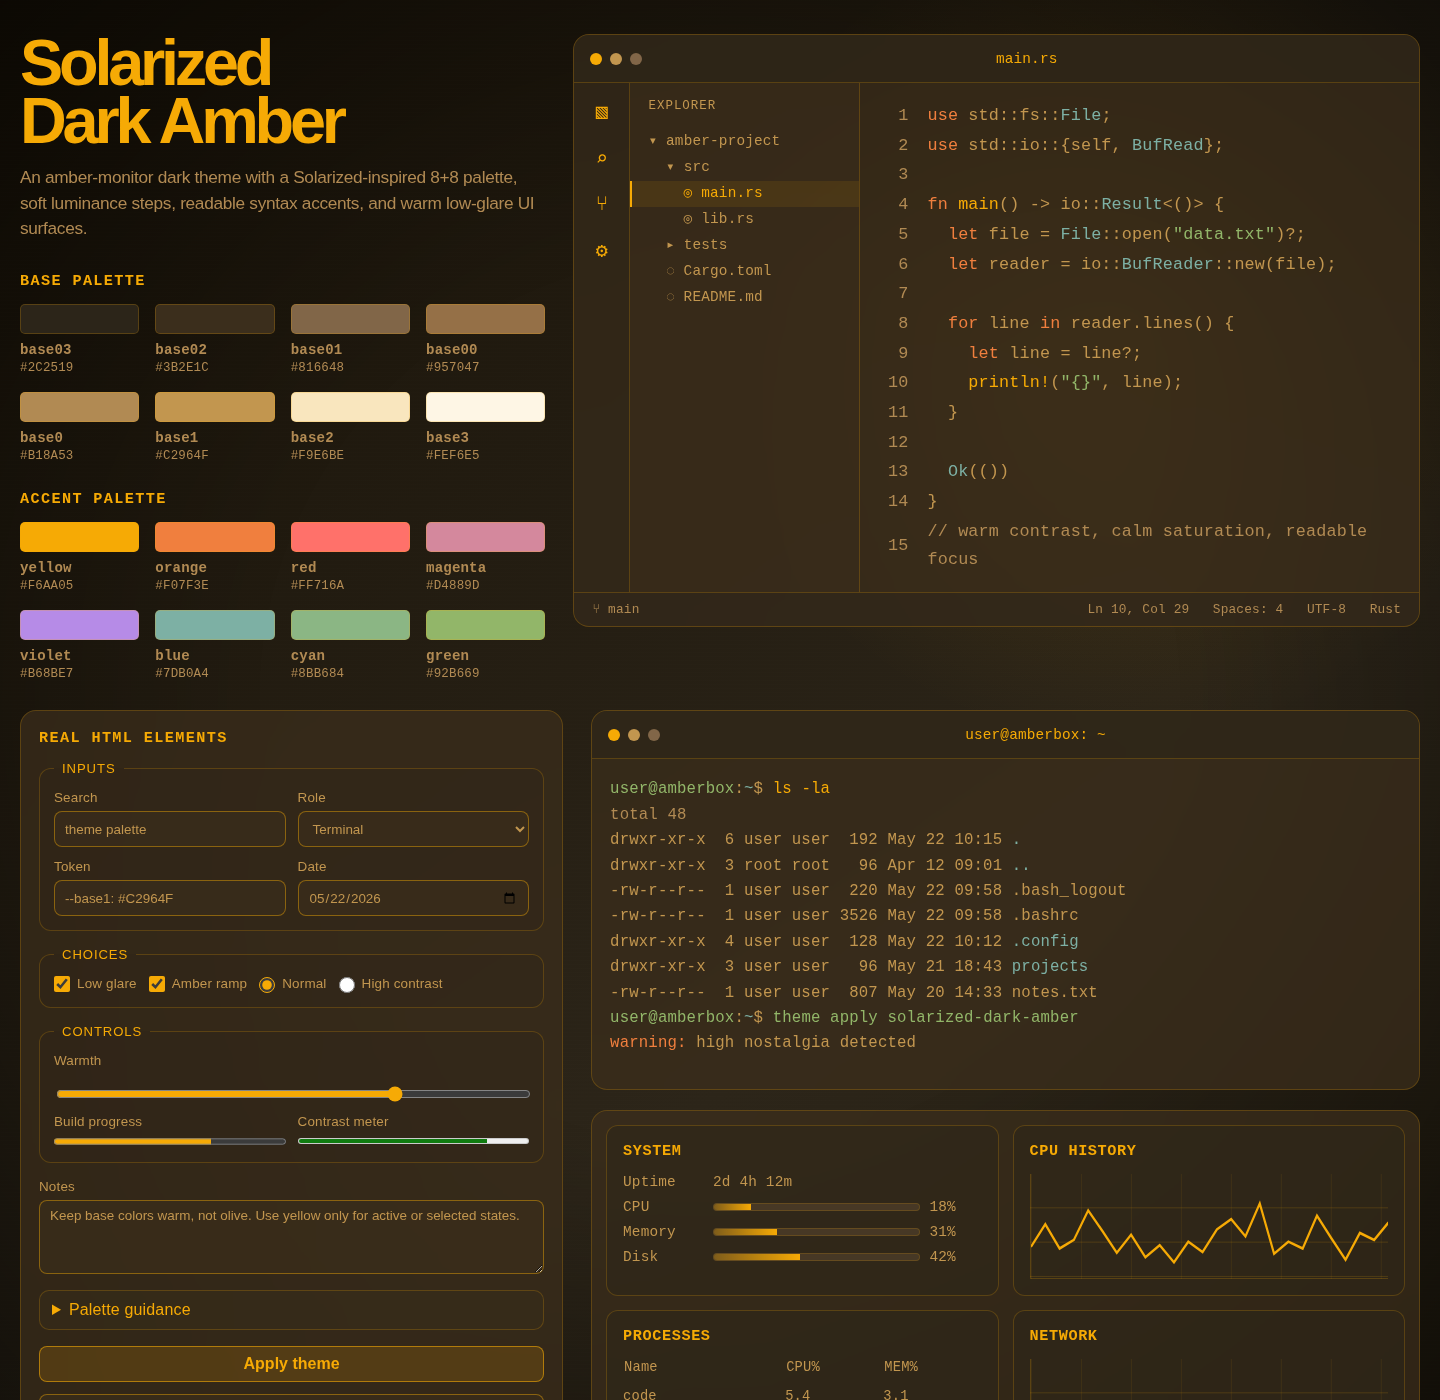
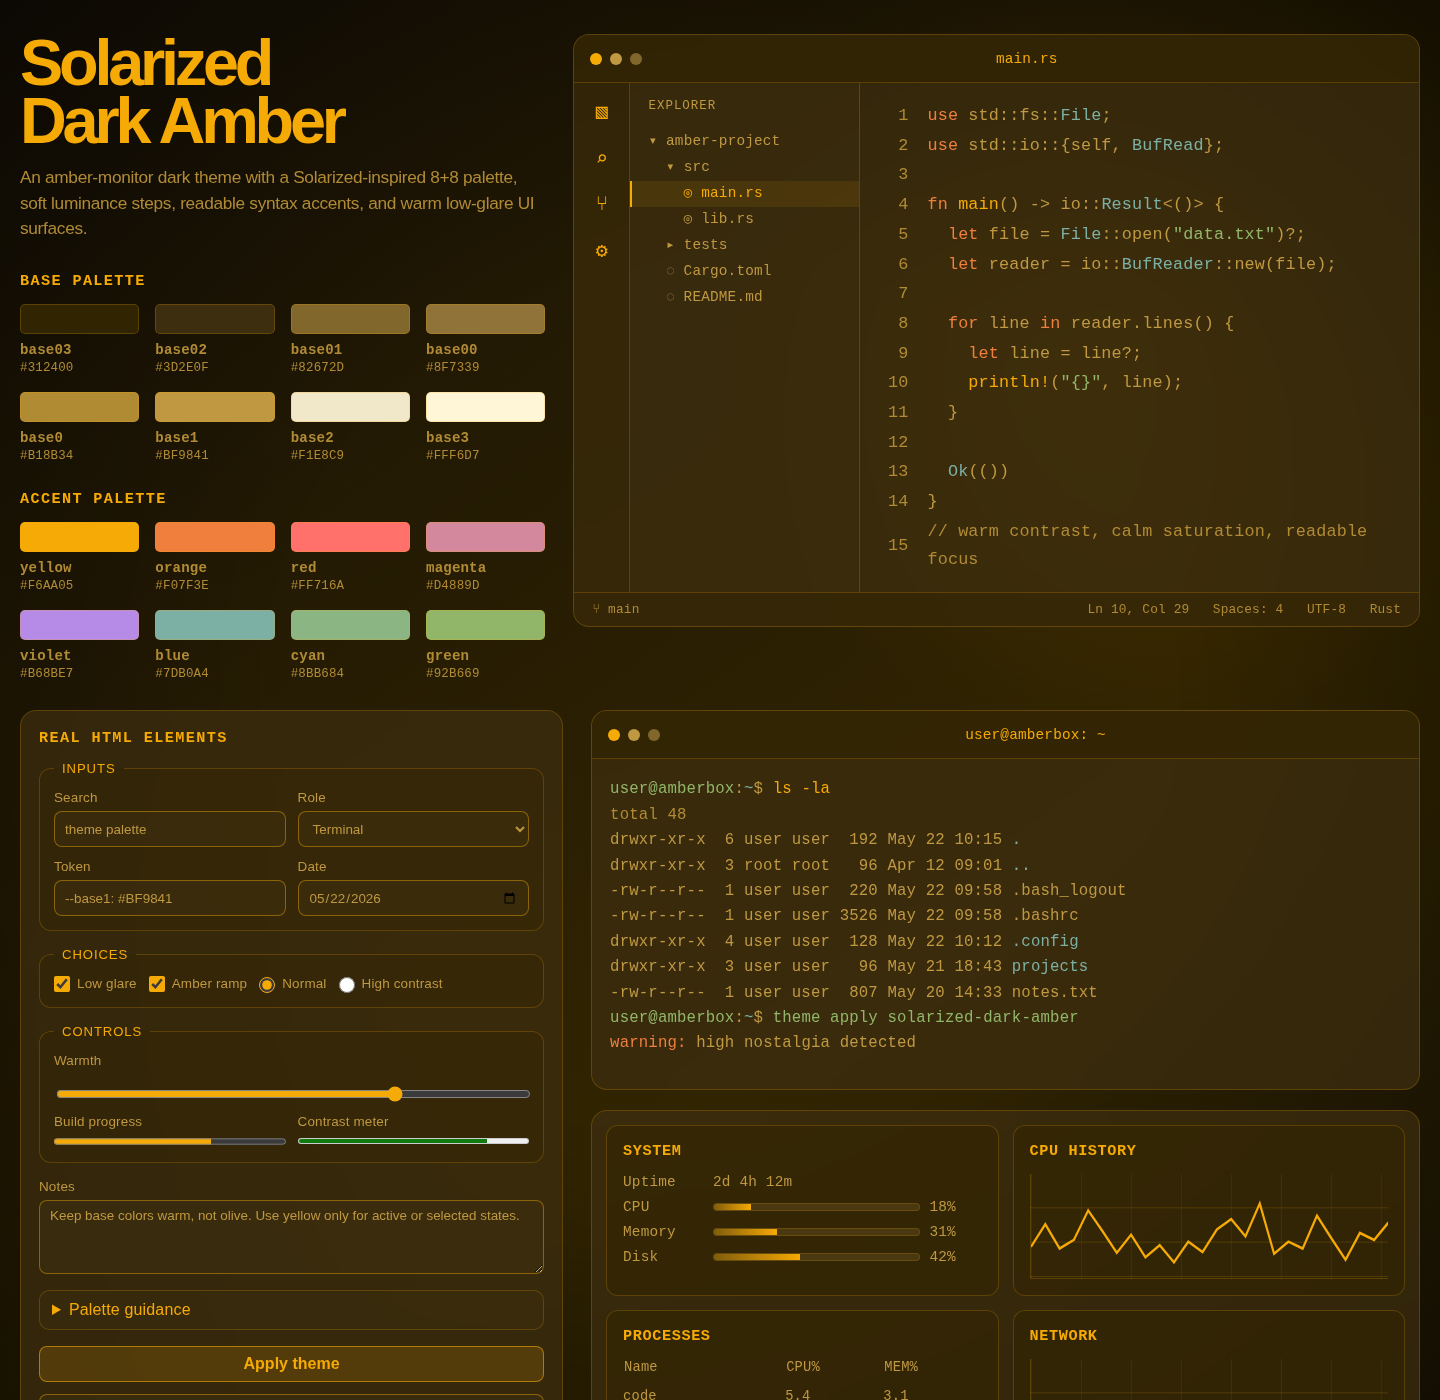
Refresh amber palette and add Ptyxis port

diff --git a/index.html b/index.html
@@ -8,8 +8,8 @@
   <link rel="stylesheet" href="palette.css">
   <style>
     :root {
-      --panel: rgba(59, 46, 28, 0.72);
-      --panel-soft: rgba(129, 102, 72, 0.38);
+      --panel: rgba(61, 46, 15, 0.72);
+      --panel-soft: rgba(130, 103, 45, 0.38);
       --line: rgba(246, 170, 5, 0.22);
       --line-strong: rgba(246, 170, 5, 0.44);
       --glow: none;
@@ -126,7 +126,7 @@ overflow: hidden;
       gap: 8px;
       padding: 0 16px;
       border-bottom: 1px solid var(--line);
-      background: rgba(44, 37, 25, 0.62);
+      background: rgba(49, 36, 0, 0.62);
     }
     .dot {
       width: 12px;
@@ -151,7 +151,7 @@ overflow: hidden;
     }
     .activity {
       border-right: 1px solid var(--line);
-      background: rgba(44, 37, 25, 0.36);
+      background: rgba(49, 36, 0, 0.36);
       padding: 16px 0;
       display: grid;
       justify-items: center;
@@ -164,7 +164,7 @@ overflow: hidden;
     .side {
       border-right: 1px solid var(--line);
       padding: 16px 0 12px;
-      background: rgba(59, 46, 28, 0.46);
+      background: rgba(61, 46, 15, 0.46);
       font-family: var(--mono);
       color: var(--base1);
     }
@@ -226,7 +226,7 @@ overflow: hidden;
       justify-content: space-between;
       padding: 0 18px;
       color: var(--base0);
-      background: rgba(44, 37, 25, 0.44);
+      background: rgba(49, 36, 0, 0.44);
       font-family: var(--mono);
       font-size: 0.8rem;
     }
@@ -248,7 +248,7 @@ overflow: hidden;
     }
     button, .badge, .input {
       border: 1px solid var(--line-strong);
-      background: rgba(59, 46, 28, 0.6);
+      background: rgba(61, 46, 15, 0.6);
       color: var(--base1);
       border-radius: 9px;
       min-height: 34px;
@@ -306,7 +306,7 @@ overflow: hidden;
     .metric {
       border: 1px solid var(--line);
       border-radius: 12px;
-      background: rgba(44, 37, 25, 0.48);
+      background: rgba(49, 36, 0, 0.48);
       padding: 16px;
       min-height: 162px;
       font-family: var(--mono);
@@ -335,7 +335,7 @@ overflow: hidden;
       border: 1px solid rgba(246, 170, 5, 0.18);
       border-radius: 999px;
       overflow: hidden;
-      background: rgba(129, 102, 72, 0.28);
+      background: rgba(130, 103, 45, 0.28);
     }
     .fill {
       display: block;
@@ -388,7 +388,7 @@ overflow: hidden;
       padding: 5px 9px;
       font-family: var(--mono);
       font-size: 0.78rem;
-      background: rgba(59, 46, 28, 0.54);
+      background: rgba(61, 46, 15, 0.54);
     }
     .right-column {
       display: grid;
@@ -429,7 +429,7 @@ font-family: var(--mono);
       border-radius: 12px;
       padding: 14px;
       margin: 0;
-      background: rgba(44, 37, 25, 0.28);
+      background: rgba(49, 36, 0, 0.28);
     }
 
     legend {
@@ -459,7 +459,7 @@ font-family: var(--mono);
     button {
       width: 100%;
       border: 1px solid var(--line-strong);
-      background: rgba(59, 46, 28, 0.62);
+      background: rgba(61, 46, 15, 0.62);
       color: var(--base1);
       border-radius: 8px;
       min-height: 36px;
@@ -555,7 +555,7 @@ font-family: var(--mono);
       border-radius: 10px;
       padding: 10px 12px;
       color: var(--base1);
-      background: rgba(59, 46, 28, 0.36);
+      background: rgba(61, 46, 15, 0.36);
     }
 
     summary {
@@ -697,7 +697,7 @@ font-family: var(--mono);
 
                 <label>
                   Token
-                  <input type="text" value="--base1: #C2964F">
+                  <input type="text" value="--base1: #BF9841">
                 </label>
 
                 <label>
@@ -823,23 +823,23 @@ font-family: var(--mono);
       </div>
       <div>
         <p class="section-title">Terminal palette order</p>
-        <pre>black:          #2C2519
+        <pre>black:          #312400
 red:            #FF716A
 green:          #92B669
 yellow:         #F6AA05
 blue:           #7DB0A4
 magenta:        #B68BE7
 cyan:           #8BB684
-white:          #F9E6BE
+white:          #F1E8C9
 
-bright black:   #957047
+bright black:   #8F7339
 bright red:     #FF8C83
 bright green:   #A8C382
 bright yellow:  #F8B932
 bright blue:    #97BEB1
 bright magenta: #C4A0E6
 bright cyan:    #A2C397
-bright white:   #FEF6E5</pre>
+bright white:   #FFF6D7</pre>
       </div>
     </section>
   </main>

diff --git a/palette-rebuild.html b/palette-rebuild.html
@@ -8,9 +8,9 @@
   <style>
     :root {
       color-scheme: dark;
-      --ink: #F9E6BE;
-      --muted: #B18A53;
-      --faint: #816648;
+      --ink: #F1E8C9;
+      --muted: #B18B34;
+      --faint: #82672D;
       --paper: #17120B;
       --panel: #211A10;
       --line: rgba(246, 170, 5, 0.2);
@@ -117,7 +117,7 @@
       padding: 20px;
       border: 1px solid var(--line);
       border-radius: 14px;
-      background: rgba(44, 37, 25, 0.72);
+      background: rgba(49, 36, 0, 0.72);
     }
 
     .verdict strong {
@@ -163,7 +163,7 @@
       padding: 18px;
       border: 1px solid var(--line);
       border-radius: 12px;
-      background: rgba(44, 37, 25, 0.54);
+      background: rgba(49, 36, 0, 0.54);
     }
 
     .metric span {
@@ -239,7 +239,7 @@
       padding: 20px 18px 28px;
       border: 1px solid var(--line);
       border-radius: 14px;
-      background: rgba(44, 37, 25, 0.48);
+      background: rgba(49, 36, 0, 0.48);
     }
 
     .ramp-chart + .ramp-chart { margin-top: 14px; }
@@ -337,7 +337,7 @@
       overflow: hidden;
       border: 1px solid var(--line);
       border-radius: 11px;
-      background: rgba(44, 37, 25, 0.5);
+      background: rgba(49, 36, 0, 0.5);
     }
 
     .accent-color {
@@ -385,7 +385,7 @@
       padding: 12px 14px;
       border: 1px solid var(--line);
       border-radius: 9px;
-      background: rgba(44, 37, 25, 0.42);
+      background: rgba(49, 36, 0, 0.42);
     }
 
     .gate-list li::before { content: "✓"; color: var(--green); font: 700 0.9rem var(--mono); }
@@ -536,8 +536,8 @@
   </script>
   <script type="application/json" id="palette-rebuilt">
   {
-    "base03": "#2C2519", "base02": "#3B2E1C", "base01": "#816648", "base00": "#957047",
-    "base0": "#B18A53", "base1": "#C2964F", "base2": "#F9E6BE", "base3": "#FEF6E5",
+    "base03": "#312400", "base02": "#3D2E0F", "base01": "#82672D", "base00": "#8F7339",
+    "base0": "#B18B34", "base1": "#BF9841", "base2": "#F1E8C9", "base3": "#FFF6D7",
     "yellow": "#F6AA05", "orange": "#F07F3E", "red": "#FF716A", "magenta": "#D4889D",
     "violet": "#B68BE7", "blue": "#7DB0A4", "cyan": "#8BB684", "green": "#92B669"
   }

diff --git a/palette.css b/palette.css
@@ -1,13 +1,13 @@
 /* Generated from palette.json by scripts/palette.mjs. */
 :root {
-  --base03: #2C2519;
-  --base02: #3B2E1C;
-  --base01: #816648;
-  --base00: #957047;
-  --base0: #B18A53;
-  --base1: #C2964F;
-  --base2: #F9E6BE;
-  --base3: #FEF6E5;
+  --base03: #312400;
+  --base02: #3D2E0F;
+  --base01: #82672D;
+  --base00: #8F7339;
+  --base0: #B18B34;
+  --base1: #BF9841;
+  --base2: #F1E8C9;
+  --base3: #FFF6D7;
   --yellow: #F6AA05;
   --orange: #F07F3E;
   --red: #FF716A;

diff --git a/README.md b/README.md
@@ -8,16 +8,16 @@ A warm, low-glare 16-color theme built on a Solarized-inspired CIELAB ramp with 
 
 | Base | Hex | Accent | Hex |
 | --- | --- | --- | --- |
-| `base03` | `#2C2519` | `yellow` | `#F6AA05` |
-| `base02` | `#3B2E1C` | `orange` | `#F07F3E` |
-| `base01` | `#816648` | `red` | `#FF716A` |
-| `base00` | `#957047` | `magenta` | `#D4889D` |
-| `base0` | `#B18A53` | `violet` | `#B68BE7` |
-| `base1` | `#C2964F` | `blue` | `#7DB0A4` |
-| `base2` | `#F9E6BE` | `cyan` | `#8BB684` |
-| `base3` | `#FEF6E5` | `green` | `#92B669` |
+| `base03` | `#312400` | `yellow` | `#F6AA05` |
+| `base02` | `#3D2E0F` | `orange` | `#F07F3E` |
+| `base01` | `#82672D` | `red` | `#FF716A` |
+| `base00` | `#8F7339` | `magenta` | `#D4889D` |
+| `base0` | `#B18B34` | `violet` | `#B68BE7` |
+| `base1` | `#BF9841` | `blue` | `#7DB0A4` |
+| `base2` | `#F1E8C9` | `cyan` | `#8BB684` |
+| `base3` | `#FFF6D7` | `green` | `#92B669` |
 
-Use `base03` for the background with `base0` text, and `base02` for raised or selected surfaces with `base1` text. Those pairs measure 4.78:1 and 4.88:1. Reserve `base2` and `base3` for inverse surfaces, `base00` for nonessential muted text, and `yellow` for focus or active states.
+Use `base03` for the background with `base0` text, and `base02` for raised or selected surfaces with `base1` text. Those pairs measure 4.78:1 and 4.90:1. Reserve `base2` and `base3` for inverse surfaces, `base00` for nonessential muted text, and `yellow` for focus or active states.
 
 ## Use
 
@@ -41,7 +41,10 @@ node scripts/palette.mjs
 node scripts/palette.mjs --check
 ```
 
-The first application port is a [Windows Terminal color scheme](ports/windows-terminal.json). Add its object to the `schemes` array in your Windows Terminal settings.
+Application ports:
+
+- [Ptyxis palette](ports/solarized-dark-amber.palette): import with `ptyxis --import-palette ports/solarized-dark-amber.palette`, then select **Solarized Dark Amber** in your Ptyxis profile preferences.
+- [Windows Terminal color scheme](ports/windows-terminal.json): add its object to the `schemes` array in your Windows Terminal settings.
 
 Open [`index.html`](index.html) to view the full theme specimen. It is also ready to publish from the repository root with GitHub Pages.
 